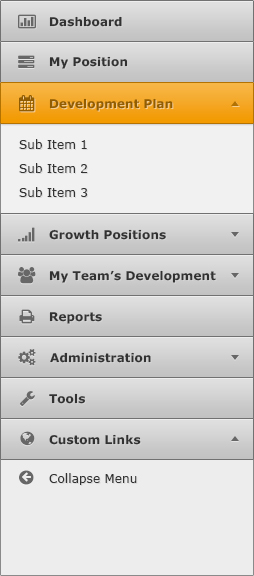
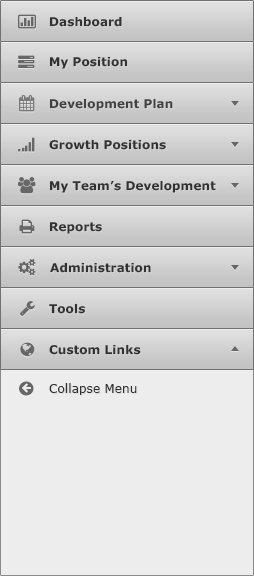
Add navigation screenshots to style guide

diff --git a/navigation.html b/navigation.html
@@ -91,8 +91,20 @@
       <p>There are navigation options for a number of situations, and everything is designed to work cross-device.</p>
           <hr>
           <h3>Main Navigation</h3>
-          <p><img src="images/navigation.jpg" alt="Navigation"></p>
+          <div class="four columns">
+            <p><img src="images/navigation.jpg" alt="Navigation"></p>
+          </div>
+          <div class="four columns">
+            <p><img src="images/navigation-open.jpg" alt="Navigation"></p>
+          </div>
+          <div class="four columns">
+            <p><img src="images/navigation-open-active.jpg" alt="Navigation"></p>
+          </div>
           <p>The navigation used in this example is called an accordion menu. When there is a sub-level navigation, the accordion will expand to reveal more navigation links that corresponds with that particular section.</p>
+          <hr>
+          <h3>Collapsed Navigation</h3>
+          <p><img src="images/collapsed-navigation.jpg" alt="Collapsed Navigation"></p>
+          <p>Sed posuere consectetur est at lobortis. Sed posuere consectetur est at lobortis.</p>
           <hr>
           <h3>Breadcrumbs</h3>
           <p><img src="images/breadcrumbs.jpg" alt="Breadcrumbs"></p>
